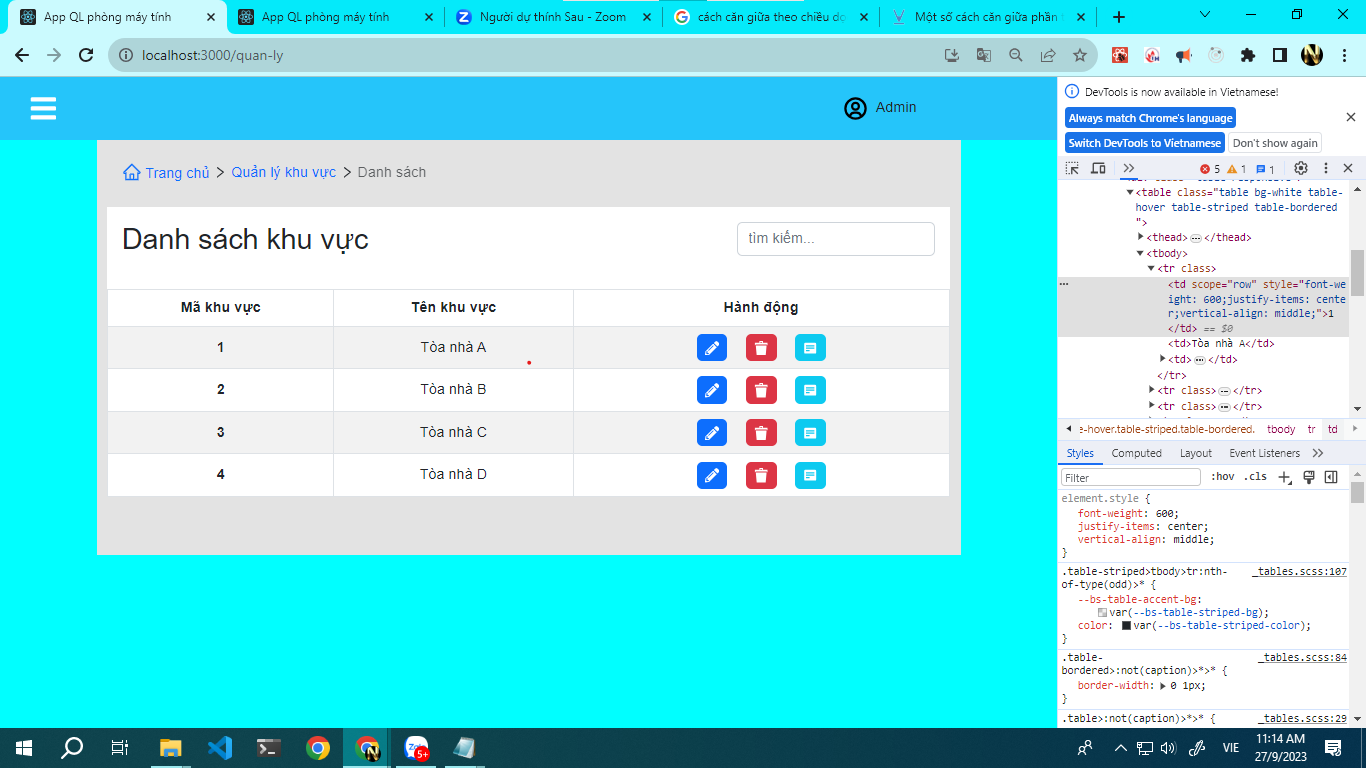
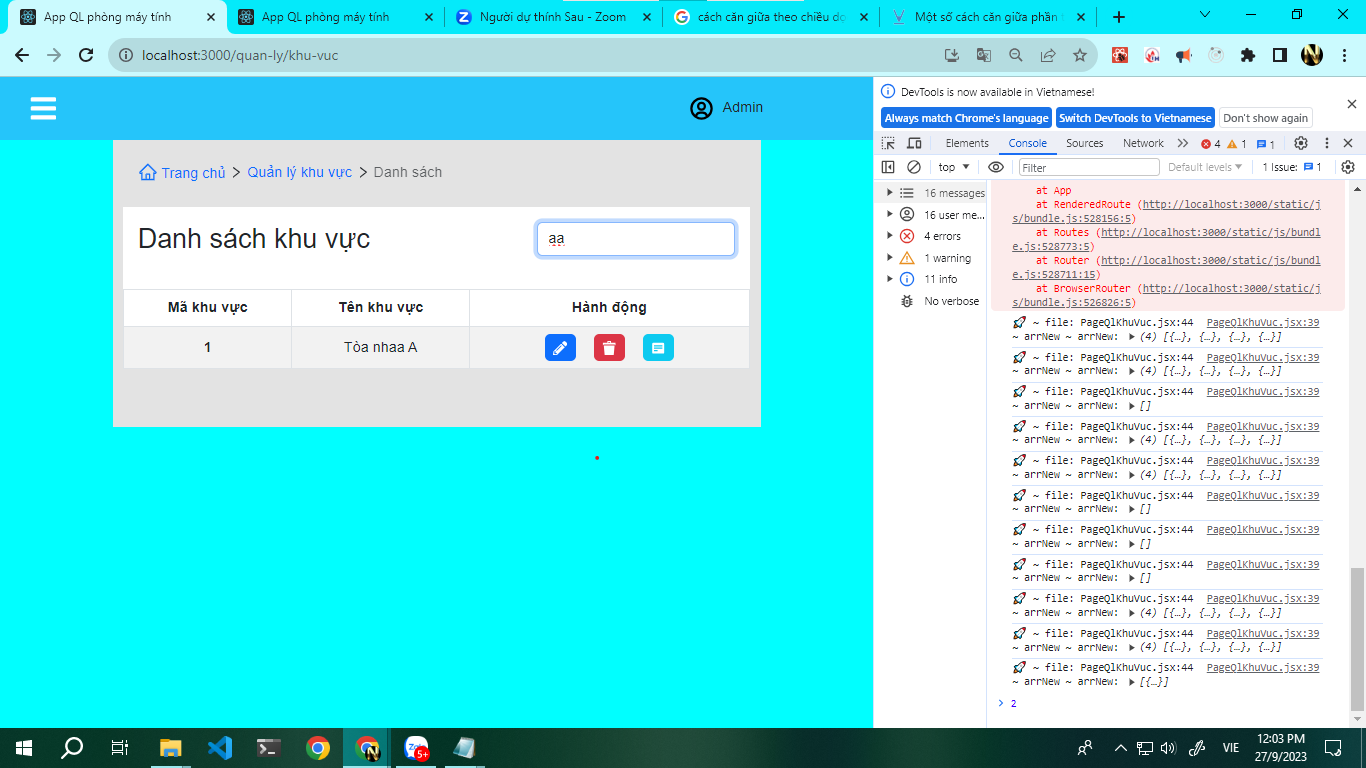
add search cho QL Khu vuc

diff --git a/src/pages/PageQuanLy/PageQlKhuVuc.jsx b/src/pages/PageQuanLy/PageQlKhuVuc.jsx
@@ -8,18 +8,38 @@ import NavTab from "../../components/common/NavTab/NavTab";
 
 const PageQlKhuVuc = (props) => {
   const dataKhuVuc = [
-    { id: 1, name: "Tòa nhà A" },
+    { id: 1, name: "Tòa nhaa A" },
     { id: 2, name: "Tòa nhà B" },
     { id: 3, name: "Tòa nhà C" },
     { id: 4, name: "Tòa nhà D" },
   ];
 
   let [arrKhuVuc, setArrKhuVuc] = useState([]);
+  let [txtSearch, setTxtSearch] = useState("");
 
   useEffect(() => {
-    setArrKhuVuc(dataKhuVuc);
-  }, []);
+    // setArrKhuVuc(dataKhuVuc);
 
+    filterData();
+  }, [txtSearch]);
+
+  //search
+  const handleSearchChange = (event) => {
+    setTxtSearch(event.target.value);
+  };
+  // Hàm tìm kiếm dựa trên giá trị của searchText
+  const filterData = () => {
+    const arrNew = dataKhuVuc.filter((item) => {
+      const search = txtSearch.toLowerCase();
+      return (
+        (item.id + "").toLowerCase().includes(search) ||
+        item.name.toLowerCase().includes(search)
+      );
+    });
+    console.log("🚀 ~ file: PageQlKhuVuc.jsx:44 ~ arrNew ~ arrNew:", arrNew);
+    setArrKhuVuc([...arrNew]);
+  };
+  //
   const renderDataKhuVuc = () => {
     // console.log("24 ---" + arrKhuVuc);
 
@@ -66,6 +86,7 @@ const PageQlKhuVuc = (props) => {
       );
     });
   };
+  //
   return (
     <div className="container">
       {/*  */}
@@ -90,6 +111,8 @@ const PageQlKhuVuc = (props) => {
                 name
                 id
                 placeholder="tìm kiếm..."
+                value={txtSearch}
+                onChange={handleSearchChange}
               />
             </div>
           </div>
